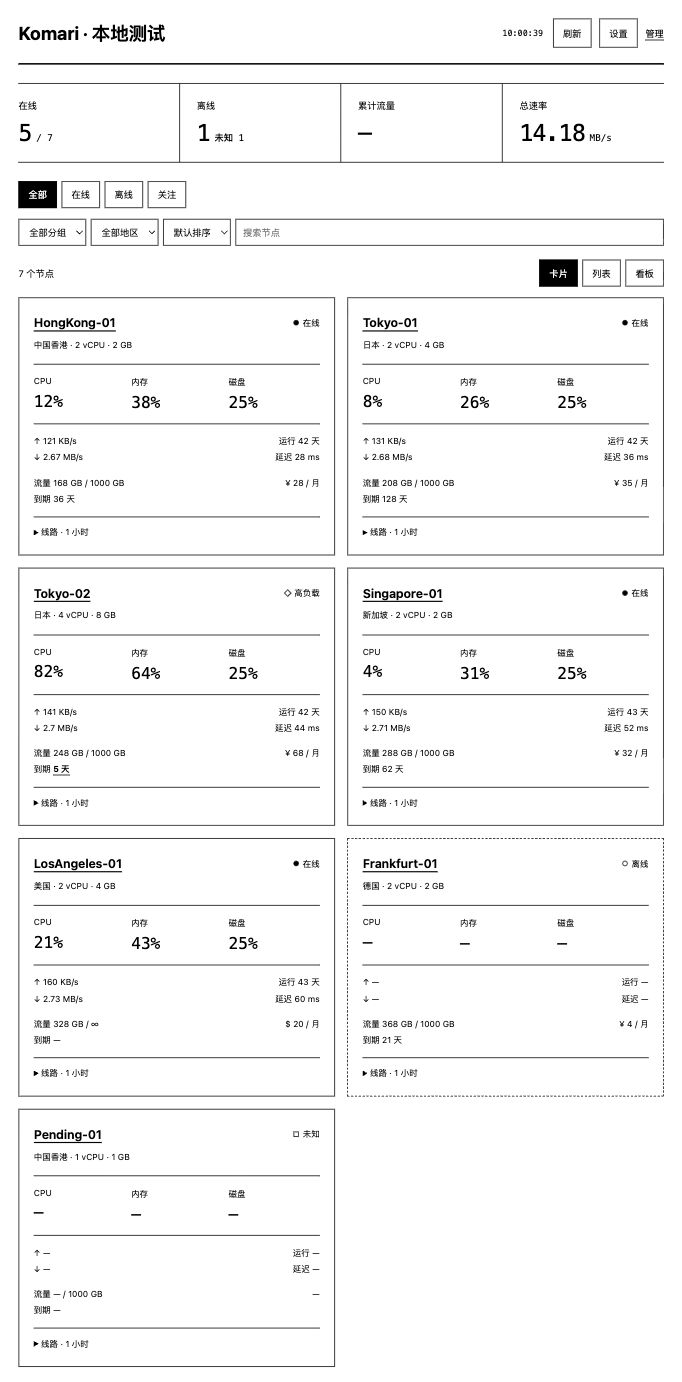
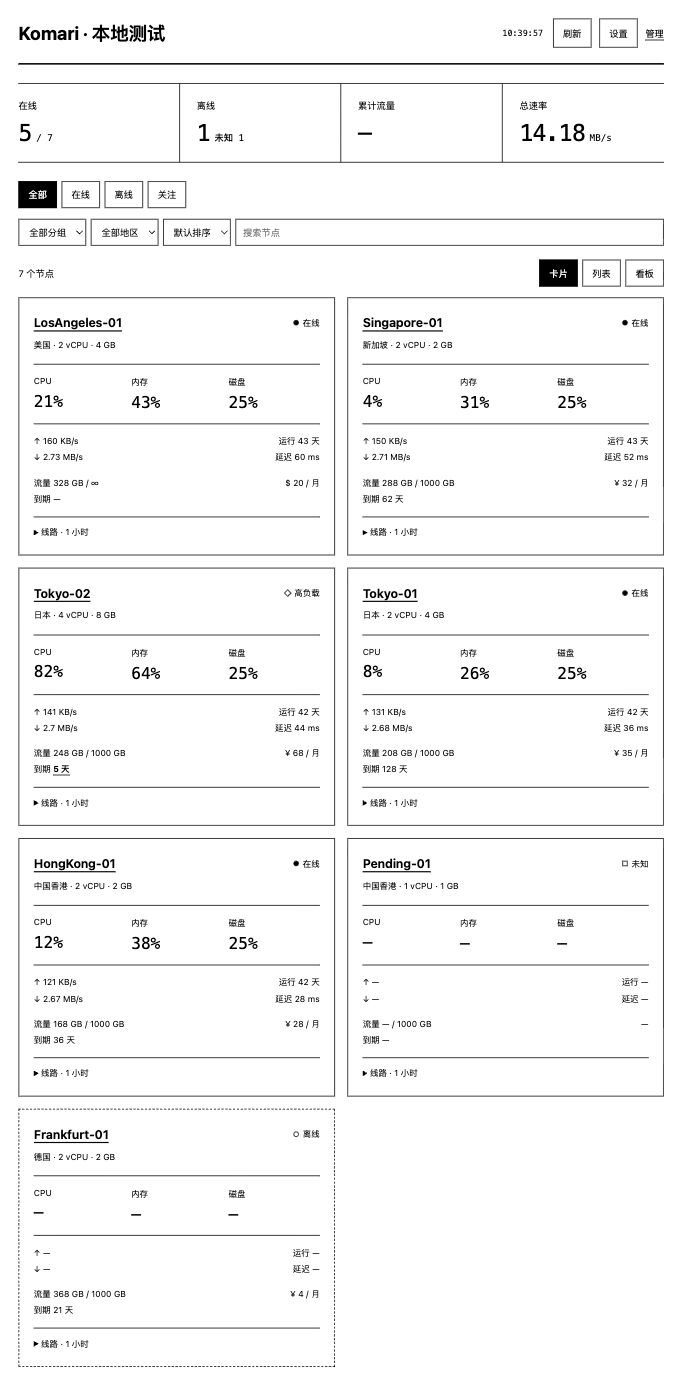
Align theme settings and monitoring behavior with Komari 1.6.1

diff --git a/index.html b/index.html
@@ -11,6 +11,6 @@
 <div id="nodes" aria-busy="true"><p class="empty">加载中</p></div>
 <noscript>请启用 JavaScript。</noscript>
 </main>
-<dialog id="settings" aria-labelledby="settings-title"><div class="dialog-head"><h2 id="settings-title">设置</h2><button data-close="settings" aria-label="关闭设置">×</button></div><form id="settings-form"><label class="setting-row">刷新间隔<select name="interval" id="interval"><option value="0">手动</option><option value="30000">30 秒</option><option value="60000">60 秒</option><option value="300000">300 秒</option></select></label><fieldset><legend>线路（最多 6 条）</legend><div id="task-options"></div><p id="task-limit" role="status"></p></fieldset><p id="storage-error" class="message" hidden></p><div class="dialog-actions"><button id="tasks-auto" type="button">自动选择</button><button type="submit" class="primary">保存</button></div></form></dialog>
-<dialog id="detail" aria-labelledby="detail-title"><div class="dialog-head"><div><h2 id="detail-title"></h2><p id="detail-sub"></p></div><button data-close="detail" aria-label="关闭详情">×</button></div><div id="detail-body"></div><section aria-label="历史记录"><div class="history-tools"><h3>历史</h3><select id="history-type" aria-label="历史类型"><option value="load">负载</option><option value="ping">线路</option></select><select id="history-hours" aria-label="历史时间范围"><option value="1">1 小时</option><option value="6">6 小时</option><option value="24">24 小时</option></select><button id="history-load">加载</button></div><div id="history-result" role="status"></div></section></dialog>
+<dialog id="settings" aria-labelledby="settings-title"><div class="dialog-head"><h2 id="settings-title">设置</h2><button data-close="settings" aria-label="关闭设置">×</button></div><form id="settings-form"><label class="setting-row">刷新间隔<select name="interval" id="interval"><option value="site">跟随站点</option><option value="0">手动</option><option value="2000">2 秒</option><option value="5000">5 秒</option><option value="10000">10 秒</option><option value="30000">30 秒</option><option value="60000">60 秒</option><option value="300000">300 秒</option></select></label><fieldset><legend>线路（最多 6 条）</legend><div id="task-options"></div><p id="task-limit" role="status"></p></fieldset><p id="storage-error" class="message" hidden></p><div class="dialog-actions"><button id="tasks-auto" type="button">跟随站点</button><button type="submit" class="primary">保存</button></div></form></dialog>
+<dialog id="detail" aria-labelledby="detail-title"><div class="dialog-head"><div><h2 id="detail-title"></h2><p id="detail-sub"></p></div><button data-close="detail" aria-label="关闭详情">×</button></div><select id="detail-node" aria-label="切换节点" hidden></select><div id="detail-body"></div><section aria-label="历史记录"><div class="history-tools"><h3>历史</h3><select id="history-type" aria-label="历史类型"><option value="load">负载</option><option value="ping">线路</option></select><select id="history-hours" aria-label="历史时间范围"><option value="1">1 小时</option><option value="6">6 小时</option><option value="24">24 小时</option></select><button id="history-load">加载</button></div><div id="history-result" role="status"></div><div id="history-chart-controls" class="history-tools" hidden><select id="history-metric" aria-label="图表指标"></select><div class="layouts"><button data-history-view="chart" aria-pressed="true">图表</button><button data-history-view="table" aria-pressed="false">数据</button></div></div><div id="history-chart"></div><div id="history-table" hidden></div></section></dialog>
 </body></html>

diff --git a/ink.css b/ink.css
@@ -2,3 +2,5 @@
 @media(max-width:1050px){.shell{padding:24px}.cards{grid-template-columns:repeat(2,minmax(0,1fr))}.toolbar{align-items:start;flex-direction:column}.tools{justify-content:start;width:100%}.tools input{flex:1;max-width:none}}
 @media(max-width:600px){.shell{padding:18px 16px 30px}header{gap:14px;align-items:start;padding-bottom:16px}h1{font-size:22px}.actions{gap:6px;font-size:11px}.actions button{min-height:33px;padding:6px 9px}.actions .mono{width:100%;text-align:right;order:4}.overview{grid-template-columns:repeat(2,1fr);margin:20px 0}.stat,.stat:first-child{padding:17px 12px}.stat:nth-child(2){border-right:0}.stat:nth-child(-n+2){border-bottom:1px solid #000}.stat strong{font-size:27px}.stat small{font-size:11px}.cards{grid-template-columns:1fr}.tools select{flex:1;min-width:0;max-width:none}.tools input{width:100%;flex-basis:100%}.filters{width:100%}.filters button{flex:1;padding:6px 10px}.board{grid-template-columns:1fr}.board-overview{border-right:0;border-bottom:1px solid #000;padding:20px}.board-overview .big{font-size:64px;margin:12px 0}.board-list{padding:0 16px}.board .name{font-size:16px}.board-value{font-size:21px}.board .sub{font-size:11px}.board-row{gap:8px}.is-board .toolbar{margin-top:20px}dialog{padding:20px}#task-options{grid-template-columns:1fr}.history-tools{gap:6px}.history-tools h3{width:100%}.history-tools select{flex:1}}
 @media print{.toolbar,.actions,.layouts,dialog{display:none}.shell{padding:0}.card{break-inside:avoid}.table-wrap{overflow:visible}.cards{grid-template-columns:repeat(2,1fr)}}
+
+.trend{display:block;width:100%;height:auto;min-height:120px;margin:14px 0}.trend text{font:11px ui-monospace,monospace;fill:currentColor}#detail-node{max-width:100%;padding:7px;margin:0 0 18px;font-size:13px}

diff --git a/README.md b/README.md
@@ -1,14 +1,14 @@
 # Komari Ink
 
-黑白极简 Komari 主题。纯 HTML、CSS 和 JavaScript，无运行时第三方依赖。
+黑白极简视觉风格的 Komari 主题，适用于普通浏览器。纯 HTML、CSS 和 JavaScript，无运行时第三方依赖。
 
-从 [Releases](https://github.com/ohbaby30/komari-ink/releases/latest) 下载安装包，在 Komari 后台主题管理上传 `Komari-Ink-v1.0.0.zip`，安装后选择 `Komari Ink`。不要上传本源码目录代替 ZIP。切换主题前保留原主题和其安装包。
+从 [Releases](https://github.com/ohbaby30/komari-ink/releases/latest) 下载安装包，在 Komari 后台主题管理上传 `Komari-Ink-v1.1.0.zip`，安装后选择 `Komari Ink`。不要上传本源码目录代替 ZIP。切换主题前保留原主题和其安装包。
 
-默认每 60 秒刷新，支持手动、30 秒、60 秒、300 秒。页面在后台时暂停请求，重新打开时刷新。设置及最多 6 条线路的选择仅保存在当前浏览器。
+默认每 2 秒更新节点状态，支持跟随站点、手动、2/5/10/30/60/300 秒。节点资料与批量线路统计每 30 秒更新，手动刷新会立即更新全部数据。页面在后台时暂停请求，重新打开时刷新。默认设置由 Komari 后台统一配置；访客覆盖项及最多 6 条线路选择保存在当前浏览器，可恢复跟随站点。
 
-支持卡片、列表、看板、分组/地区筛选、排序、节点详情和按需历史记录。线路统计窗口为 1 小时；历史记录最多 120 条。离线或缺少数据时显示「—」，请求失败保留上次成功快照并提示。
+支持卡片、列表、看板、分组/地区筛选、排序、节点详情和按需黑白历史图表与数据表。线路统计窗口为 1 小时；历史记录最多 120 条。离线或缺少数据时显示「—」，请求失败保留上次成功快照并提示。
 
-接口基线：Komari 1.6.0 官方源码。实际服务端与设备兼容性须以安装测试为准。主题不提供模拟数据，不修改后端配置；登录和管理通过 Komari 自带后台完成。
+接口与设置基线：Komari 1.6.1 官方源码和默认前端；不是实体墨水屏硬件适配。实际服务端兼容性须以安装测试为准。主题不提供模拟数据，不修改后端配置；登录和管理通过 Komari 自带后台完成。
 
 仓库外的项目工作目录提供测试、预览和打包工具，不作为主题安装内容。当前源码为本项目实现；未包含第三方框架、字体、图标或图表代码。
 
@@ -18,8 +18,14 @@
 
 将本目录的内容作为仓库根目录上传，包含隐藏目录 `.github/`；不要把外层项目目录整体上传。
 
-修改 `komari-theme.json` 中的 version，提交源码后推送同名版本标签，例如 `v1.0.0`。Actions 自动检查语法、版本匹配及 ZIP 内容，再创建对应 Release，附带 `Komari-Ink-v1.0.0.zip`、`SHA256SUMS` 和 `build-report.json`。下载这个主题 ZIP，不要使用 GitHub 自动生成的 Source code ZIP。
+修改 `komari-theme.json` 中的 version，提交源码后推送同名版本标签，例如 `v1.1.0`。Actions 自动检查语法、版本匹配及 ZIP 内容，再创建对应 Release，附带 `Komari-Ink-v1.1.0.zip`、`SHA256SUMS` 和 `build-report.json`。下载这个主题 ZIP，不要使用 GitHub 自动生成的 Source code ZIP。
 
 预发布版本采用 `1.1.0-rc.1` / `v1.1.0-rc.1`，也支持 alpha、beta；Actions 自动标为预发布。版本与标签不一致会失败。已有 Release 不会被覆盖；使用新版本和新标签。
 
 工作流使用 GitHub 提供的 GITHUB_TOKEN，无需添加个人 PAT。仓库 Actions 需允许工作流申请 contents: write。提交工作流不会发布，推送匹配标签才发布。
+
+## 后台主题设置
+
+后台支持默认刷新间隔、默认布局、离线节点位置、内容宽度、总览/节点流量配额/费用与到期/线路显示开关、详情节点切换及首页线路选择。背景图、富文本页脚和装饰动画不加入本主题。
+
+历史时间范围读取各指标保留配置，不将 1.6.1 兼容字段 record_enabled 误当全局开关。公开任务的 clients 决定节点分配；未分配和无样本分别显示。v1.0 的 60 秒旧默认会迁移为跟随站点，其他自选周期保留；旧偏好数据不删除。
